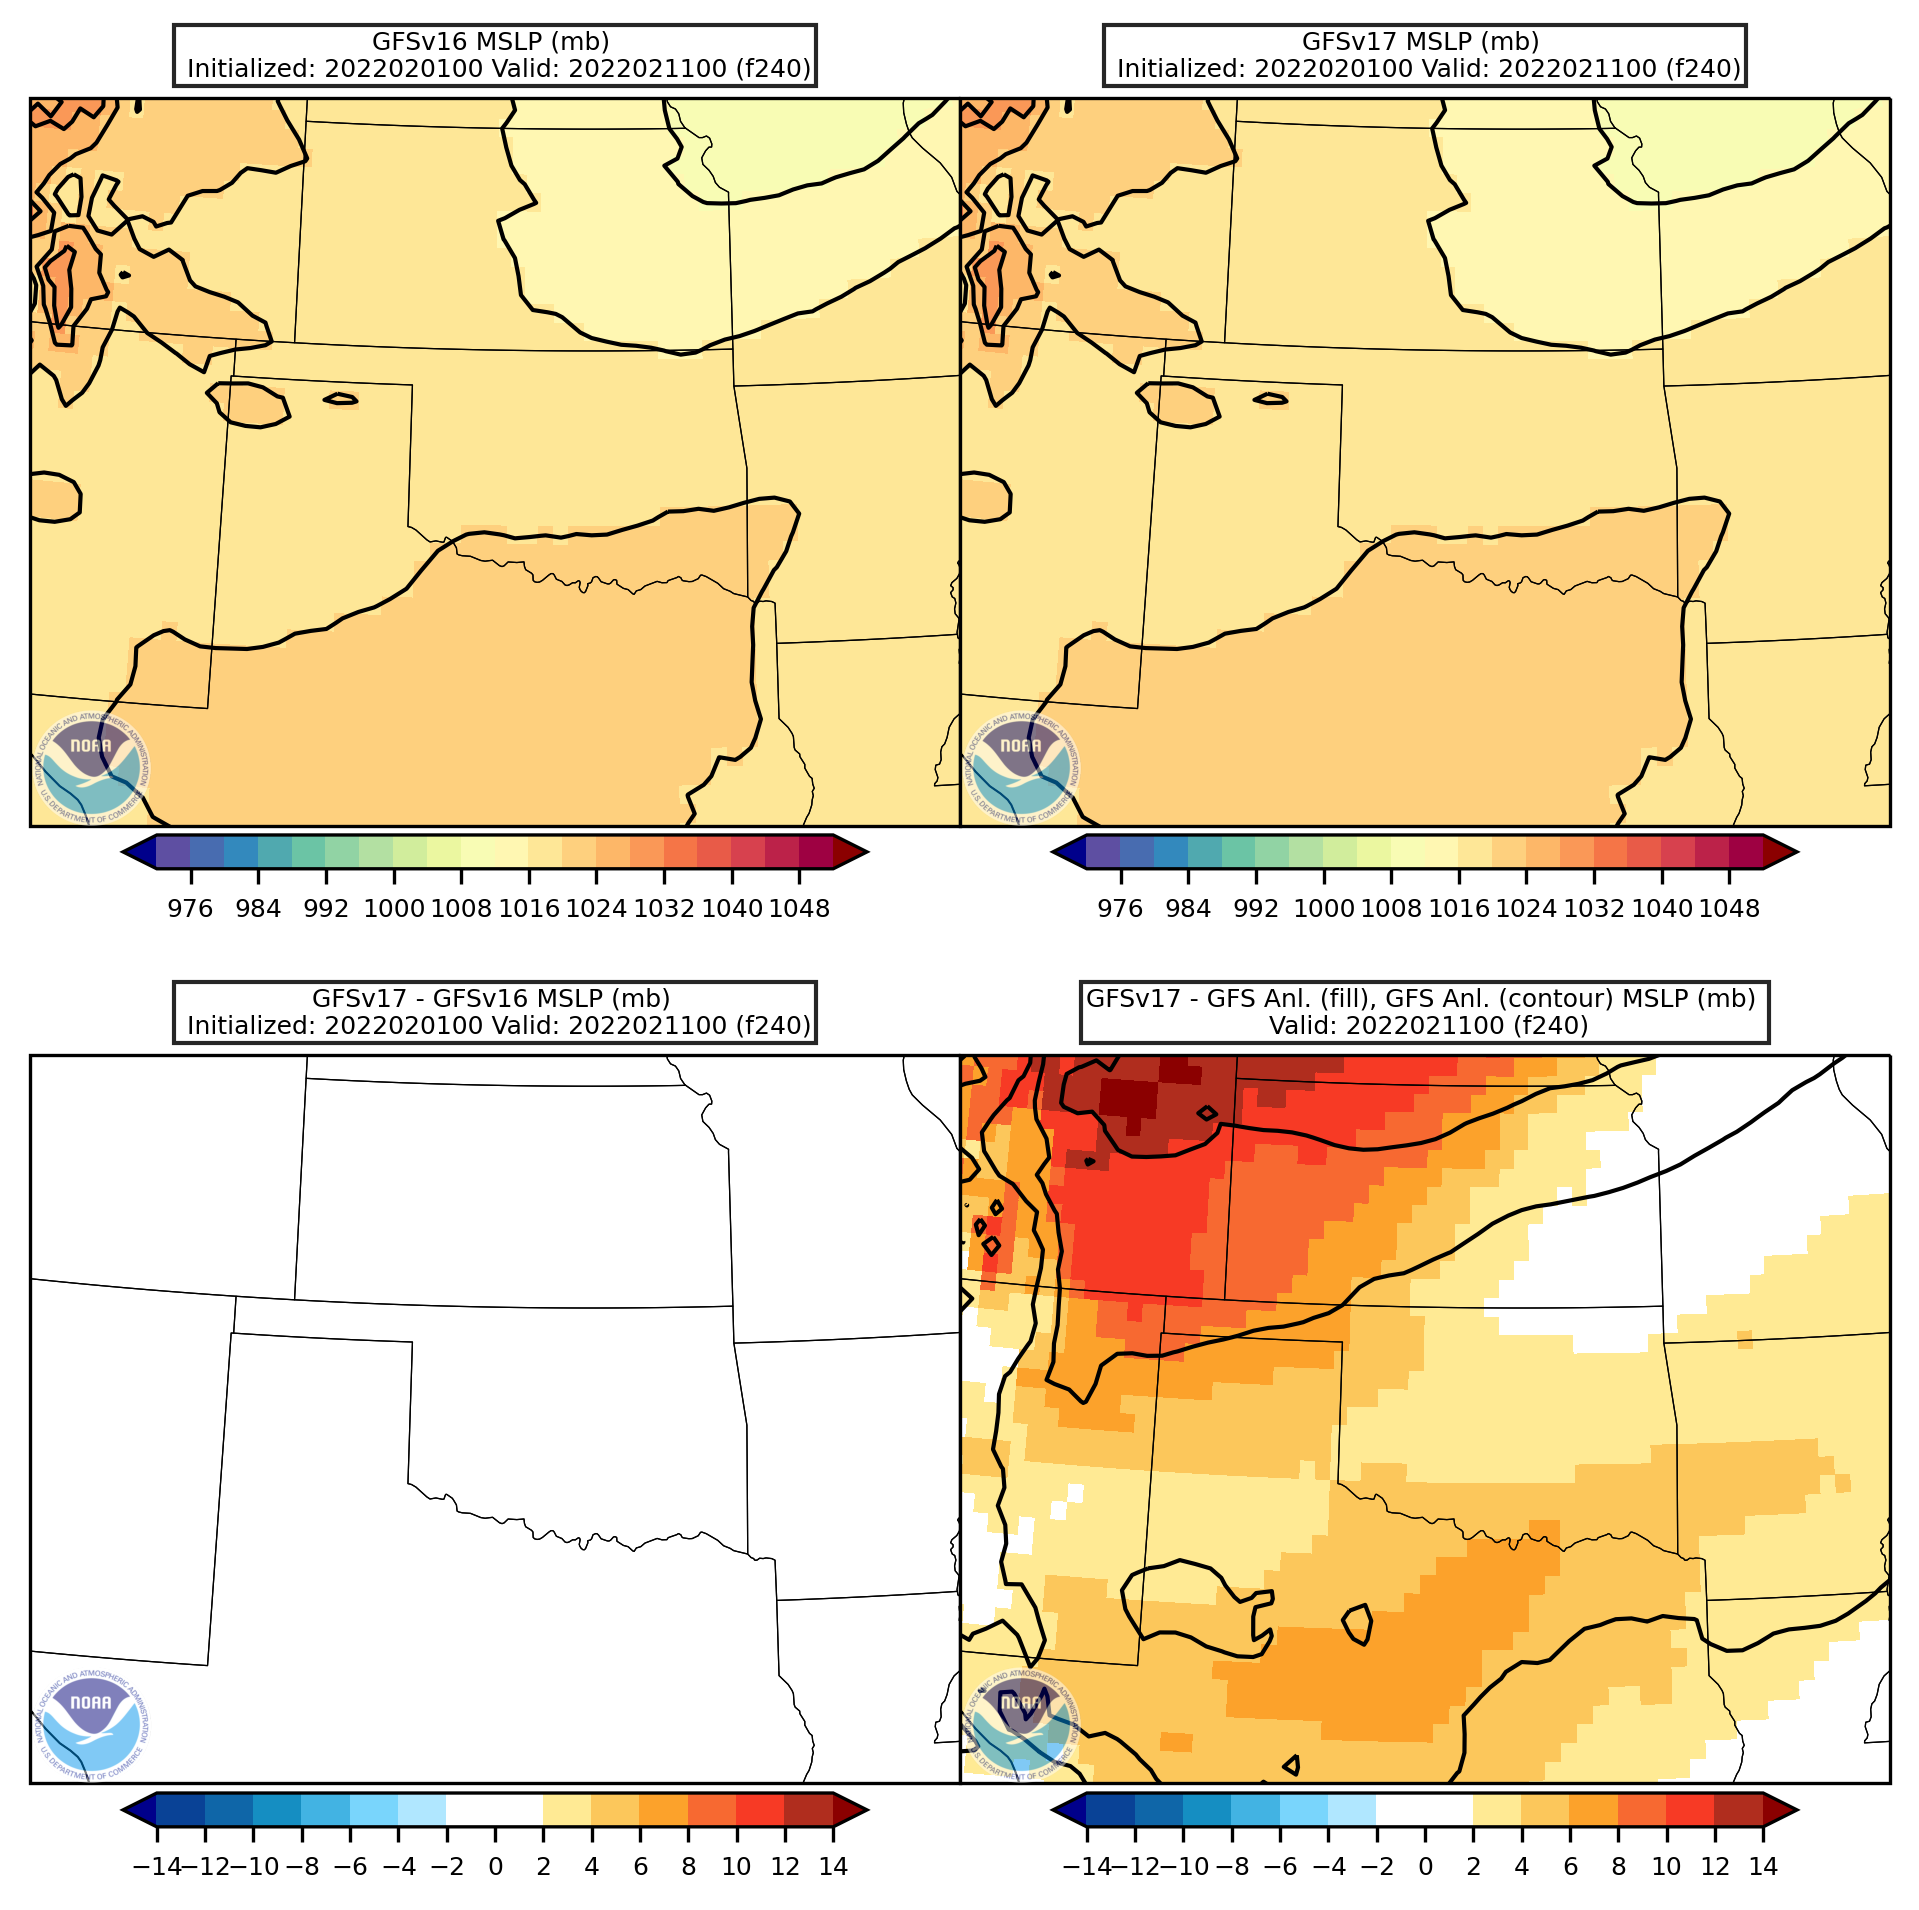
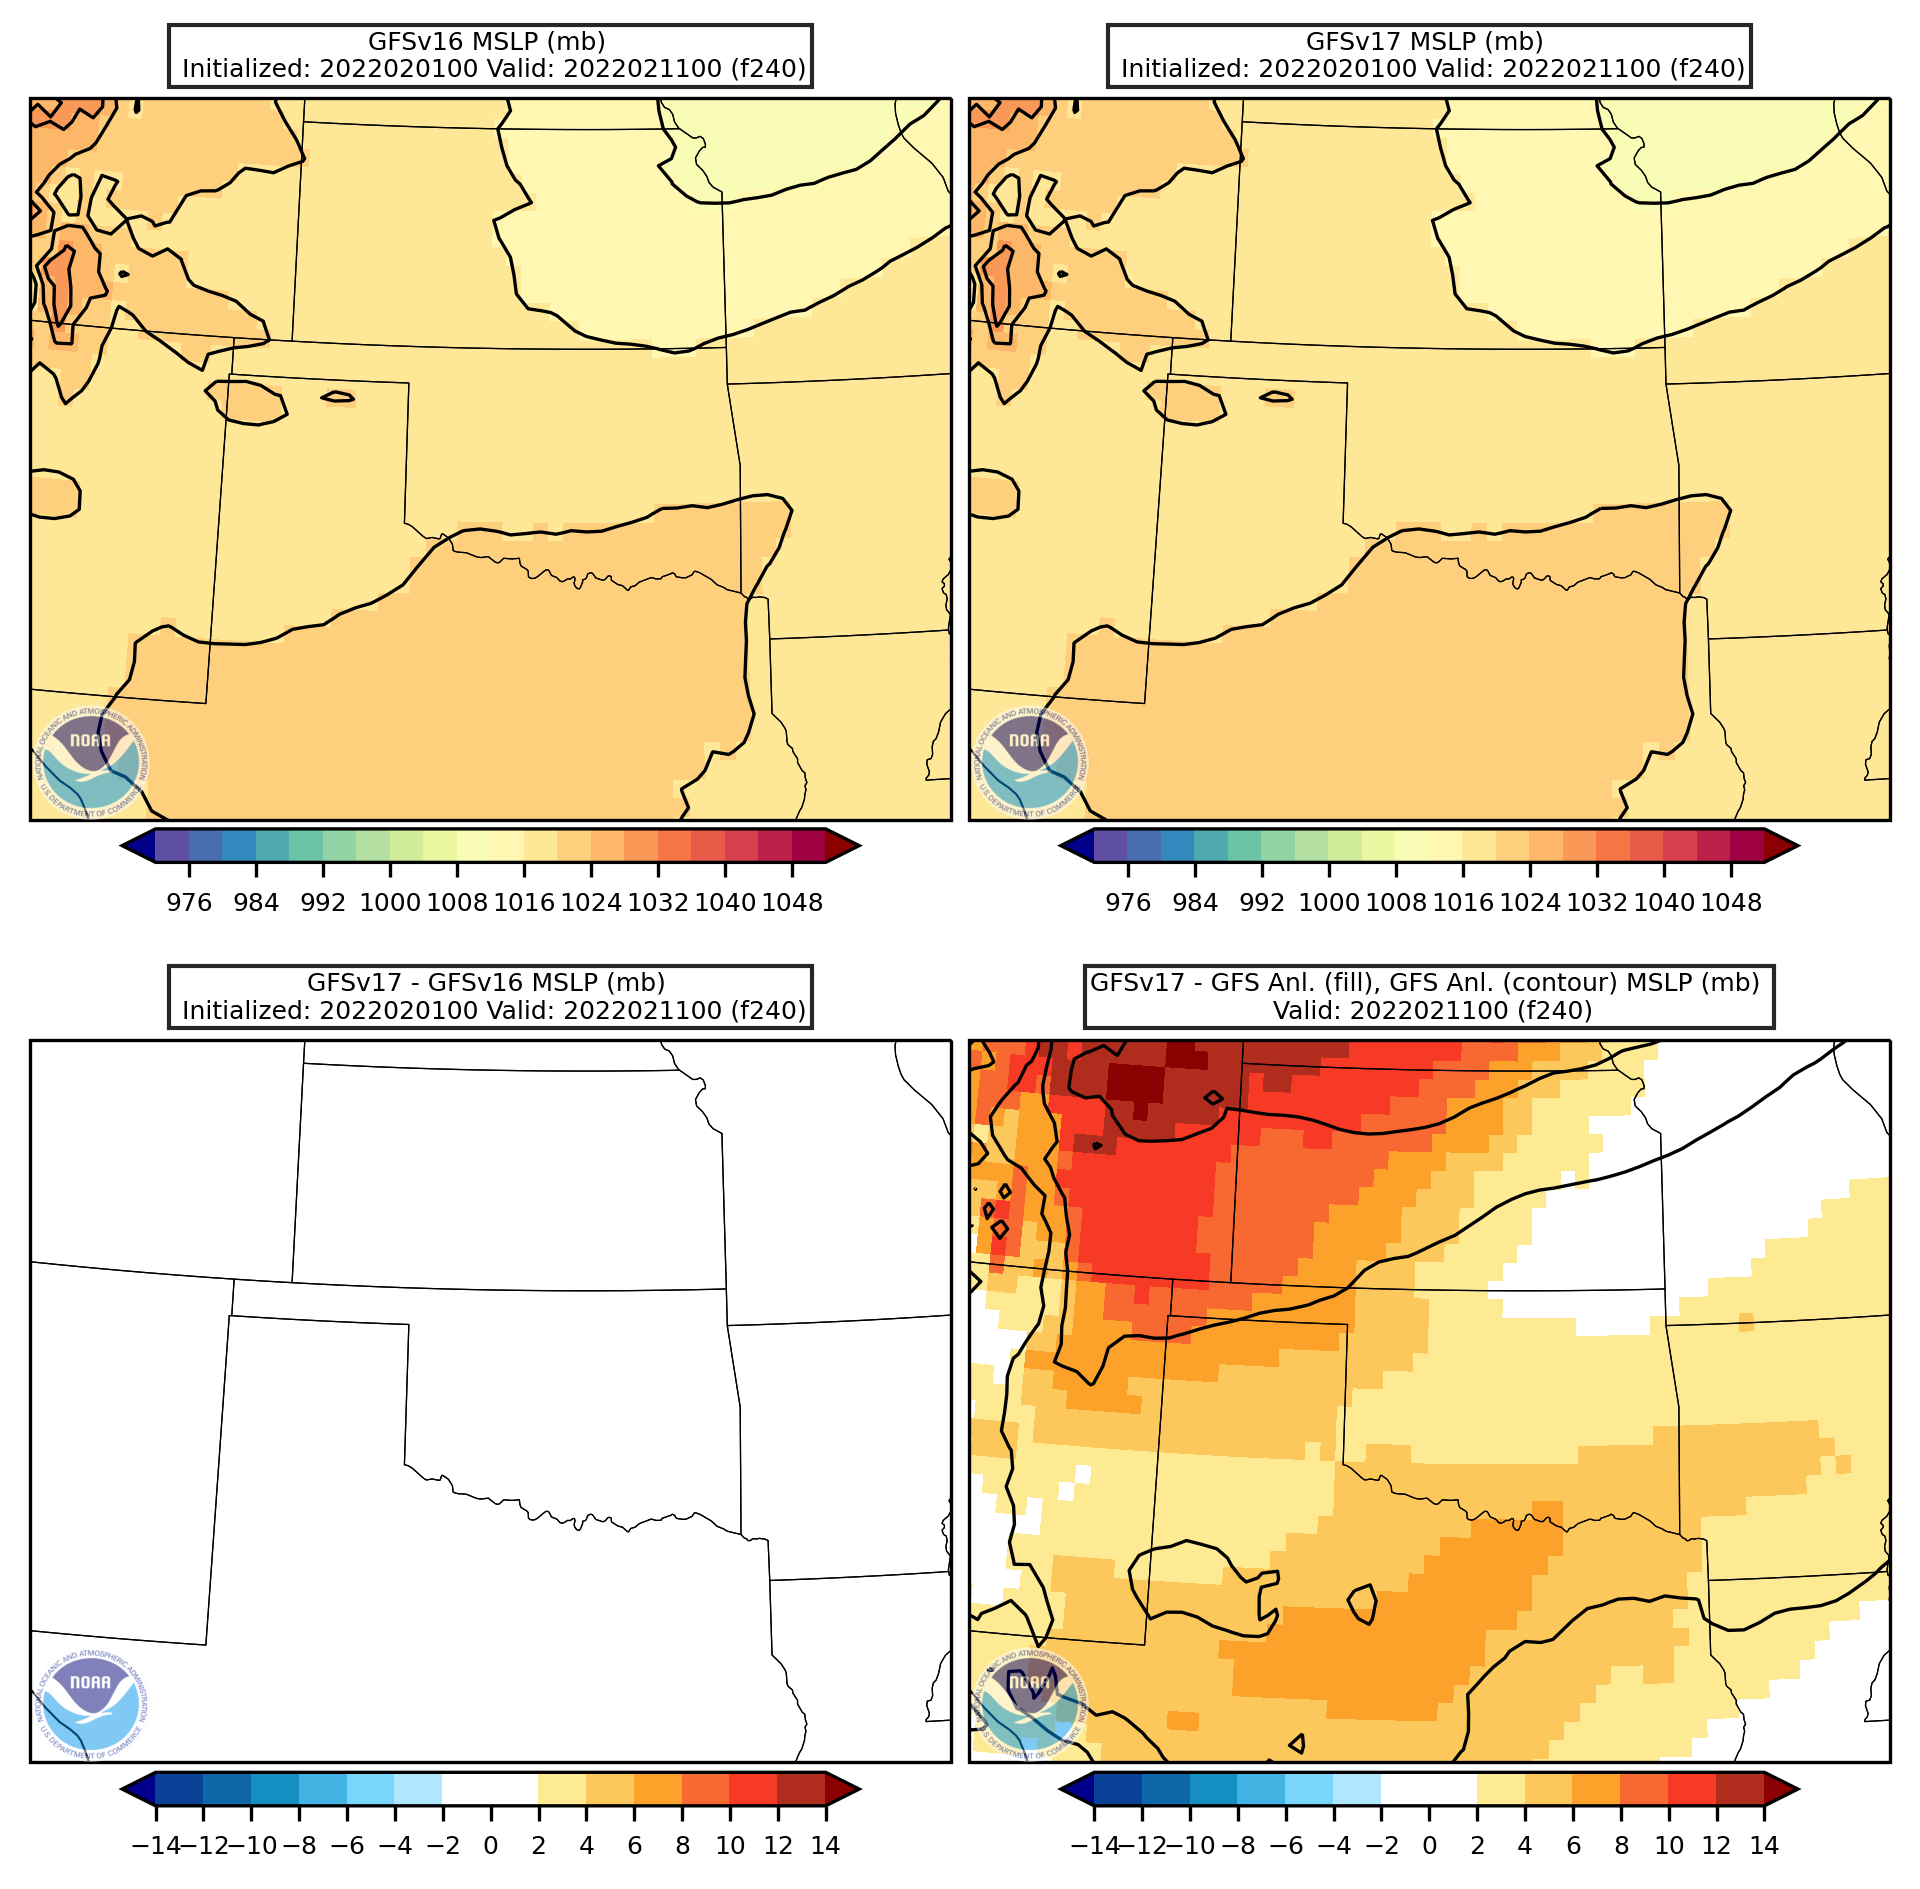
Added white space between panels for CONUS subdomains

diff --git a/plot_maps/plot_gfs_slp_4panel.py b/plot_maps/plot_gfs_slp_4panel.py
@@ -6,7 +6,7 @@ import cartopy.crs as ccrs
 from cartopy.mpl.gridliner import LONGITUDE_FORMATTER, LATITUDE_FORMATTER
 import cartopy.feature as cfeature
 import matplotlib
-#matplotlib.use('Agg')
+#print(matplotlib.__version__)
 import io
 import matplotlib.pyplot as plt
 from PIL import Image
@@ -19,6 +19,7 @@ import ncepy
 from scipy import ndimage
 from netCDF4 import Dataset
 import cartopy
+#print(cartopy.__version__)
 import copy
 
 #--------------Set some classes------------------------#
@@ -318,7 +319,7 @@ def create_figure():
     urcrnrlat = 48.0
     cen_lat = 44.0
     cen_lon = -76.0
-    xextent=-265000
+    xextent=-264000
     yextent=-332791
   elif dom == 'midatlantic':
     llcrnrlon = -85.5
@@ -348,7 +349,7 @@ def create_figure():
     xextent=-455000
     yextent=-192000
   elif dom == 'midwest':
-    llcrnrlon = -98.75
+    llcrnrlon = -98.74
     llcrnrlat = 38.5
     urcrnrlon = -80.75
     urcrnrlat = 49.28
@@ -399,7 +400,7 @@ def create_figure():
     urcrnrlat = 42.559
     cen_lat = 35.0
     cen_lon = -116.0
-    xextent=-899000
+    xextent=-898000
     yextent=-302000
   elif dom == 'northamerica':
     llcrnrlon = -145.0
@@ -504,7 +505,7 @@ def create_figure():
     llcrnrlon = -105.7
     llcrnrlat = 30.44
     urcrnrlon = -91.3
-    urcrnrlat = 40.1
+    urcrnrlat = 40.11
     cen_lat = 34.5
     cen_lon = -97.0
     xextent=-656000
@@ -592,15 +593,15 @@ def create_figure():
     ax4 = fig.add_subplot(gs[4:,9:], projection=myproj)
   else:
     fig = plt.figure(figsize=(8,8))
-    gs = GridSpec(19,18,wspace=0.0,hspace=0.0)
+    gs = GridSpec(19,18,wspace=0.2,hspace=0.0)
     extent = [llcrnrlon,urcrnrlon,llcrnrlat,urcrnrlat]
     myproj=ccrs.LambertConformal(central_longitude=cen_lon, central_latitude=cen_lat,
             false_easting=0.0,false_northing=0.0, secant_latitudes=None,
             standard_parallels=None,globe=None)
     ax1 = fig.add_subplot(gs[0:9,0:9], projection=myproj)
     ax2 = fig.add_subplot(gs[0:9,9:], projection=myproj)
-    ax3 = fig.add_subplot(gs[9:,0:9], projection=myproj)
-    ax4 = fig.add_subplot(gs[9:,9:], projection=myproj)      
+    ax3 = fig.add_subplot(gs[8:,0:9], projection=myproj)
+    ax4 = fig.add_subplot(gs[8:,9:], projection=myproj)      
 
   ax1.set_extent(extent)
   ax2.set_extent(extent)
@@ -756,11 +757,11 @@ def plot_set_1():
   elif dom == 'globe':
     skip = 40
     thick = 0.5
-    slp1 = ndimage.filters.gaussian_filter(slp_1, 10.0)
-    slp2 = ndimage.filters.gaussian_filter(slp_2, 10.0)
-    slp4 = ndimage.filters.gaussian_filter(slp_4, 10.0)
-    slpdif_fcst = ndimage.filters.gaussian_filter(slp_dif_fcst, 10.0)
-    slpdif_anl = ndimage.filters.gaussian_filter(slp_dif_anl, 10.0)
+    slp1 = slp_1 #ndimage.filters.gaussian_filter(slp_1, 30.0)
+    slp2 = slp_2 #ndimage.filters.gaussian_filter(slp_2, 30.0)
+    slp4 = slp_4 #ndimage.filters.gaussian_filter(slp_4, 30.0)
+    slpdif_fcst = slp_dif_fcst #ndimage.filters.gaussian_filter(slp_dif_fcst, 30.0)
+    slpdif_anl = slp_dif_anl #ndimage.filters.gaussian_filter(slp_dif_anl, 30.0)
   else:
     skip = 40
     thick = 0.8
